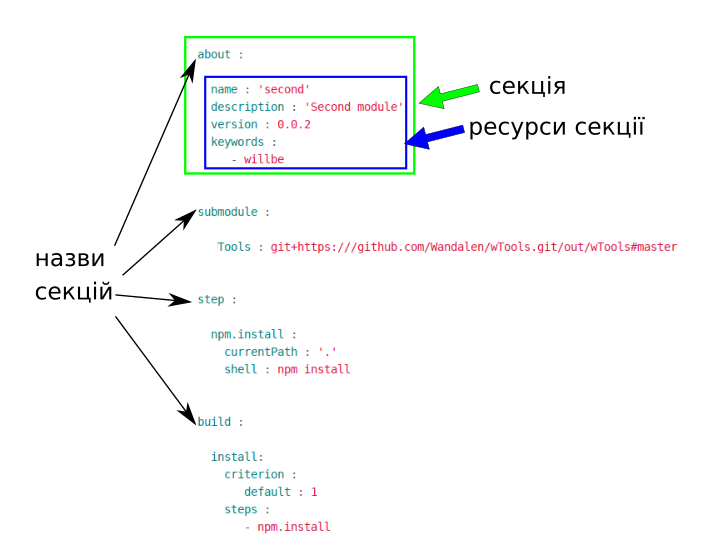
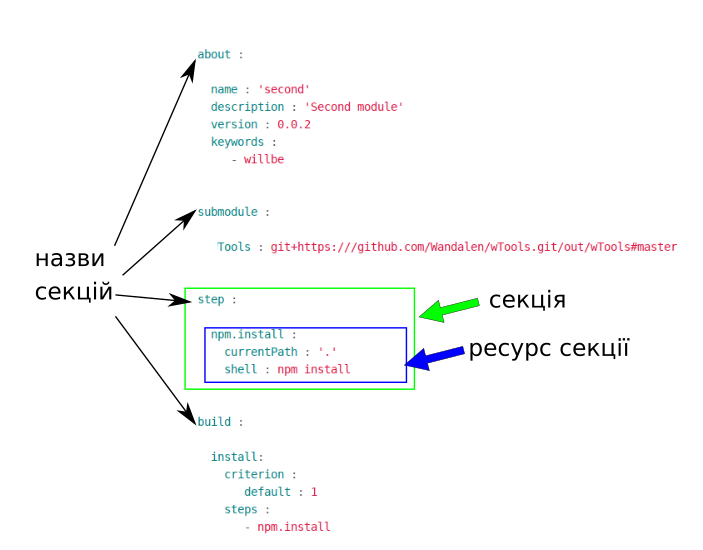
Some changes

Changed region(s): [[0.239, 0.0618, 0.926, 0.34], [0.239, 0.5255, 0.8962, 0.7109], [0.2688, 0.4945, 0.5676, 0.5255]]

diff --git a/doc/version2.ukr/Concepts/Module.md b/doc/version2.ukr/Concepts/Module.md
@@ -6,10 +6,10 @@
 ![module.png](./Images/module.png)
 
 На рисунку приведений `will-файл`, номерами і стрілками позначено як його читати (спрощена схема).  
-1. В секції `about` (якщо вказана) поміщена інформація про модуль - назва, версія, опис, інтерпретатори і ключові слова - інформація для розробника.  
-2. Секція `build` присутня в більшості `will-файлiв`, вона поміщає збірки побудови модуля. На рисунку збірка з назвою `export` виконує крок з назвою `export.single` (стрілкою вказано переіхід).  
-3. Крок `export.single` виконує експорт. В полі `export` крок `export.single` посилається на ресурс секції `path` з назвою `fileToExport` (стрілкою вказано переіхід).
-4. Ресурс `fileToExport` секції `path` вказує на файл з назвою `fileToExport` в директорії модуля. 
+1. В секції `about` (якщо вказана) поміщена інформація про модуль - назва, версія, опис, інтерпретатори і ключові слова - інформація для розробника. На даному рисунку вказано, що модуль називається `exportModule`, версія - 0.0.1, він призначений для експорту одного файла.   
+2. Секція `build` присутня в більшості `will-файлiв`, вона поміщає збірки побудови модуля. На рисунку збірка з назвою `export` виконує крок з назвою `export.single` (стрілкою вказано перехід).  
+3. Крок `export.single` виконує експорт. В полі `export` крок посилається на ресурс секції `path` з назвою `fileToExport` (стрілкою вказано переіхід). Формулювання посилання `Назва секції :: Назва ресурса` прийнято для всіх ресурсів.
+4. Ресурс `fileToExport` секції `path` вказує на файл з назвою `fileToExport` в директорії модуля.   
 Структура модуля має вигляд:  
 
 ```

diff --git a/doc/version2.ukr/Concepts/Composition.md b/doc/version2.ukr/Concepts/Composition.md
@@ -13,7 +13,7 @@
 ![resource.png](./Images/resource.png)
 
 ### Опис секцій  
-[**About.**](#about) В секції поміщено основну інформація про модуль - назва, версія, опис...    
+[**About.**](#about) В секції поміщено основну інформація про модуль - назва, версія, опис... Секція має власні поля опису та не має ресурсів.    
 Структура полів секції `about`:  
 
 | Поле           | Опис                                    |
